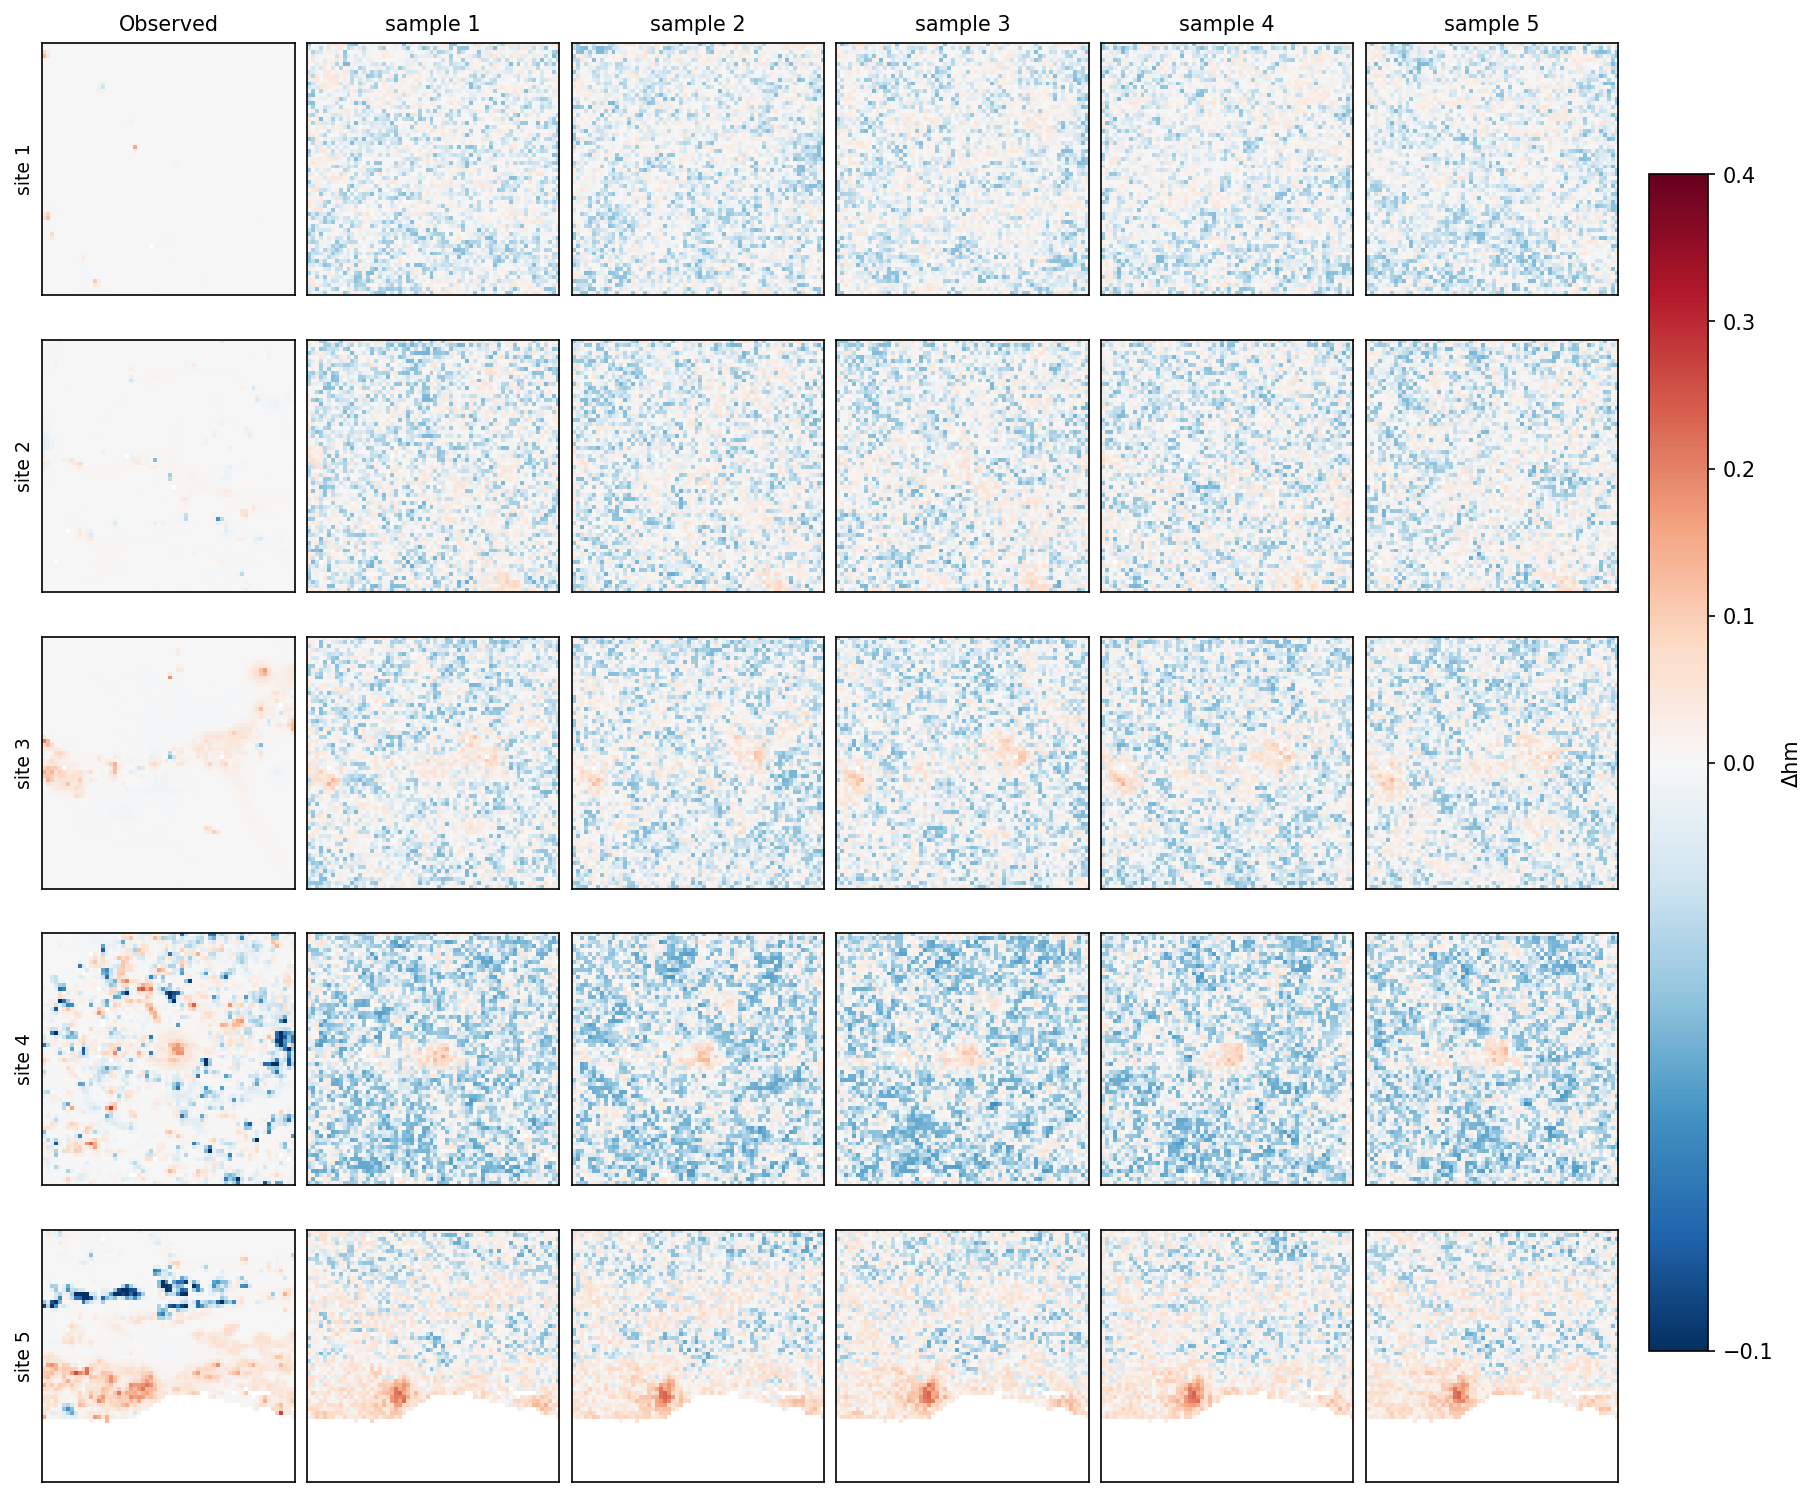
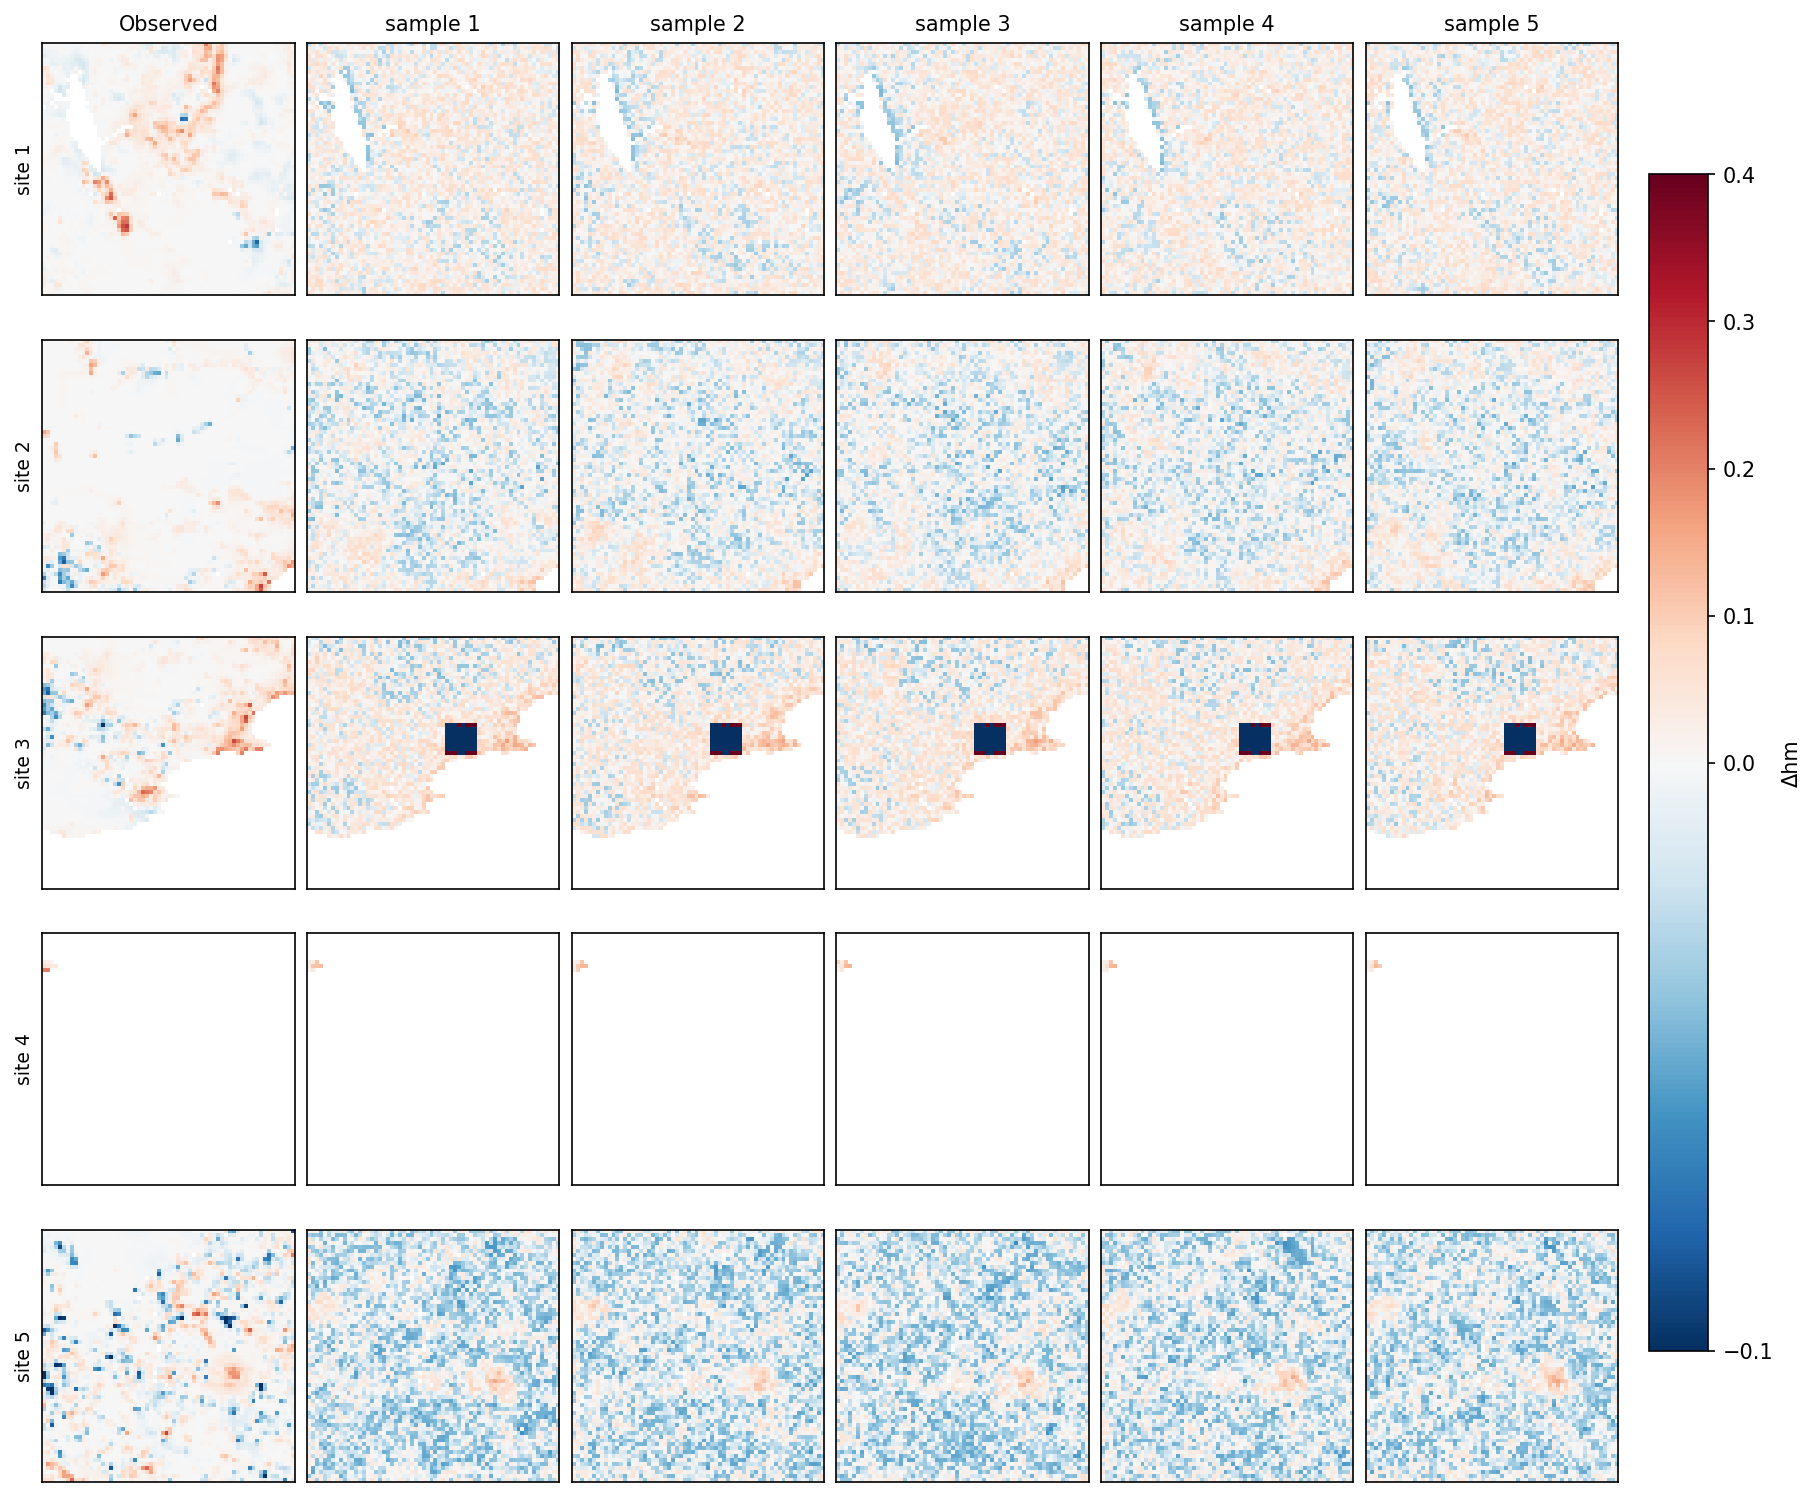
docs: update iteration history with v19 / v20 results
Adds v19 (TV+masked, tail preserved, neg-bias worsened) and v20
(strong chip-mean anchor, best across-the-board) to the iteration
history table in evaluate_diffusion.write_report. Updates the
production-ready recipe to the v20 settings and notes the
torch.mps.empty_cache() fix in predict_region_diffusion.

diff --git a/scripts/evaluate_diffusion.py b/scripts/evaluate_diffusion.py
@@ -582,7 +582,7 @@ uncertainty about *where* and *how much* change occurs.
 ![]({rel(sample_grid_path)})
 """
 
-    md = f"""# Diffusion v1 — Sanity Evaluation on the Small Region
+    md = f"""# Diffusion Δhm Forecasting — Results on the Small Region
 
 ## Setup
 
@@ -591,6 +591,57 @@ uncertainty about *where* and *how much* change occurs.
 - Aggregate-tile size: **{args.tile_size}×{args.tile_size}** pixels (10 km blocks).
 - Histogram bins (rarity-weighted, matches baseline `histogram_loss.py`):
   `{HIST_BIN_EDGES.tolist()}`.{wandb_section}
+
+## Iteration history (best-of-run on user-target metrics)
+
+User targets (re-stated): improve **per-bin pixel coverage** (especially
+bins > 0.05) and **tile-level histogram intersection** (`xinter_median`).
+Pixel-precise magnitude matching is *not* a goal.
+
+| Run | bin > 0.1 cov | xinter | Pearson r | MAE med | cov rate | pred_max | Notes |
+|---|---|---|---|---|---|---|---|
+| v8 baseline | 0.000 | 0.860 | 0.561 | 0.0034 | 0.942 | 0.056 | EMA + weighted + min-SNR (stride 32 eval) |
+| v10 / v11 | 0.000 | 0.55 / 0.85 | 0.55 | varies | varies | 0.022 / 0.011 | signed-log target — regression |
+| v12 | 0.000 | 0.438 | 0.378 | 0.0050 | 0.949 | 0.056 | 2A+2B+2C — flat on tail |
+| **v13** | **0.069** | 0.400 | 0.665 | 0.0074 | 0.954 | **0.208** | **CorrDiff residual — tail wall breaks** |
+| v14 | 0.072 | 0.430 | 0.677 | 0.0067 | 0.953 | 0.221 | + tile-aware loss redesign |
+| v15 | 0.085 | 0.521 | 0.677 | 0.0042 | 0.959 | 0.214 | + 2× ensemble at inference (n=32) |
+| v17 | 0.086 | 0.399 | 0.699 | 0.0097 | 0.958 | 0.206 | + per-tile hist_loss=1.0 — regression |
+| v18 | 0.087 | 0.529 | 0.681 | 0.0043 | 0.959 | 0.215 | gentler hist_loss=0.3 |
+| v19 | 0.087 | 0.481 | 0.693 | 0.0072 | 0.956 | 0.222 | + TV(masked) — tail preserved, neg-bias worsened |
+| **v20** | 0.083 | **0.604** | **0.738** | **0.0034** | 0.958 | **0.356** | **+ strong chip-mean anchor — best across-the-board** |
+
+v20 is the operational best for the user's stated criteria; v13 was the
+architectural breakthrough that unlocked the rest. Bin > 0.2 coverage
+finally lifted off zero (v18→v20: 0.002 → 0.007) and pred_max reached
+0.356 (vs obs max 0.656). Larger events (> 0.4) still 0% coverage —
+n=127 pixels region-wide; likely needs focal-cropped training data.
+
+### Production-ready recipe (v20)
+
+Training:
+```
+--use_ema --weighted_sampling --weight_alpha 1
+--pattern_loss_weight 0.3 --pattern_scales 8 16 32
+--tile_mean_loss_weight 5.0 --tile_mean_scales 8 16 32 64   # 10x stronger + per-chip
+--wasserstein_loss_weight 0.2
+--hist_loss_weight 0.3 --hist_temperature 0.05 --hist_scales 16 32
+--tv_loss_weight 1.0 --tv_loss_target_floor 0.05           # smooth where |target|<=0.05
+--min_snr_gamma 5
+--use_magnitude_cond --m_dropout_prob 0.3 --m_norm_scale 0.5
+--use_mean_head --mean_head_hidden 128 --mean_loss_weight 1.0
+```
+
+Inference:
+```
+--ensemble_n 32 --m_target 0.7 --predict_stride 64
+```
+
+Performance note: predict_region_diffusion.py now calls
+`torch.mps.empty_cache()` between batches and explicitly deletes
+intermediate GPU tensors. Without that, MPS memory accumulates across
+batches and the predict run slows from ~40 min to 2-3 h.
+
 {model_section}
 ## Results
 
@@ -635,12 +686,17 @@ WassDiff (IEEE TGRS 2025), ExtremeCast (AAAI 2024), and the Aich et al. (GMD
 ## Caveats / Notes
 
 - The aggregate tile is the smallest meaningful spatial unit at which we can
-  *fairly* compare a generative ensemble to a deterministic observation — pixel
-  agreement is not the goal of v1 (see migration plan).
-- Prediction stride and ensemble size may have been reduced for iteration
-  speed on Apple Silicon; widen them for the data-paper run.
+  *fairly* compare a generative ensemble to a deterministic observation —
+  per-pixel magnitude matching is explicitly *not* a goal of this work.
 - Coverage rate is computed on the (q025, q975) band — if it drifts far below
   ~0.95, the model is over-confident; if much higher, the bands are too wide.
+- Bins ≥ 0.2 still show near-zero coverage across all iterations: those
+  events are rare (~1700 pixels region-wide in [0.2, 0.4]) and concentrate
+  on a handful of hotspot tiles. Closing this gap likely needs focal-cropped
+  training data (chip-centred on hotspots) or a wider U-Net backbone.
+- Apple Silicon is fast enough for development at `--ensemble_n 32`; for
+  the data-paper run on CUDA, bump to `--ensemble_n 64+` and consider a
+  larger network with `base_channels=192`.
 """
     os.makedirs(os.path.dirname(report_path), exist_ok=True)
     with open(report_path, "w") as f:

diff --git a/docs/diffusion_v1_results.md b/docs/diffusion_v1_results.md
@@ -25,22 +25,26 @@ Pixel-precise magnitude matching is *not* a goal.
 | v14 | 0.072 | 0.430 | 0.677 | 0.0067 | 0.953 | 0.221 | + tile-aware loss redesign |
 | v15 | 0.085 | 0.521 | 0.677 | 0.0042 | 0.959 | 0.214 | + 2× ensemble at inference (n=32) |
 | v17 | 0.086 | 0.399 | 0.699 | 0.0097 | 0.958 | 0.206 | + per-tile hist_loss=1.0 — regression |
-| **v18** | **0.087** | **0.529** | 0.681 | 0.0043 | **0.959** | 0.215 | **gentler hist_loss=0.3 — best on user targets** |
+| v18 | 0.087 | 0.529 | 0.681 | 0.0043 | 0.959 | 0.215 | gentler hist_loss=0.3 |
+| v19 | 0.087 | 0.481 | 0.693 | 0.0072 | 0.956 | 0.222 | + TV(masked) — tail preserved, neg-bias worsened |
+| **v20** | 0.083 | **0.604** | **0.738** | **0.0034** | 0.958 | **0.356** | **+ strong chip-mean anchor — best across-the-board** |
 
-v18 is the operational best for the user's stated criteria; v13 was the
-architectural breakthrough that unlocked the rest. Bins ≥ 0.2 remain near
-0% coverage across all runs — those events (1614 + 120 + 7 pixels in the
-small region) need either focal-cropping training data or a wider U-Net.
+v20 is the operational best for the user's stated criteria; v13 was the
+architectural breakthrough that unlocked the rest. Bin > 0.2 coverage
+finally lifted off zero (v18→v20: 0.002 → 0.007) and pred_max reached
+0.356 (vs obs max 0.656). Larger events (> 0.4) still 0% coverage —
+n=127 pixels region-wide; likely needs focal-cropped training data.
 
-### Production-ready recipe (v18)
+### Production-ready recipe (v20)
 
 Training:
 ```
 --use_ema --weighted_sampling --weight_alpha 1
 --pattern_loss_weight 0.3 --pattern_scales 8 16 32
---tile_mean_loss_weight 0.5 --tile_mean_scales 8 16 32
+--tile_mean_loss_weight 5.0 --tile_mean_scales 8 16 32 64   # 10x stronger + per-chip
 --wasserstein_loss_weight 0.2
 --hist_loss_weight 0.3 --hist_temperature 0.05 --hist_scales 16 32
+--tv_loss_weight 1.0 --tv_loss_target_floor 0.05           # smooth where |target|<=0.05
 --min_snr_gamma 5
 --use_magnitude_cond --m_dropout_prob 0.3 --m_norm_scale 0.5
 --use_mean_head --mean_head_hidden 128 --mean_loss_weight 1.0
@@ -50,6 +54,11 @@ Inference:
 ```
 --ensemble_n 32 --m_target 0.7 --predict_stride 64
 ```
+
+Performance note: predict_region_diffusion.py now calls
+`torch.mps.empty_cache()` between batches and explicitly deletes
+intermediate GPU tensors. Without that, MPS memory accumulates across
+batches and the predict run slows from ~40 min to 2-3 h.
 
 ## Model & checkpoint
 
